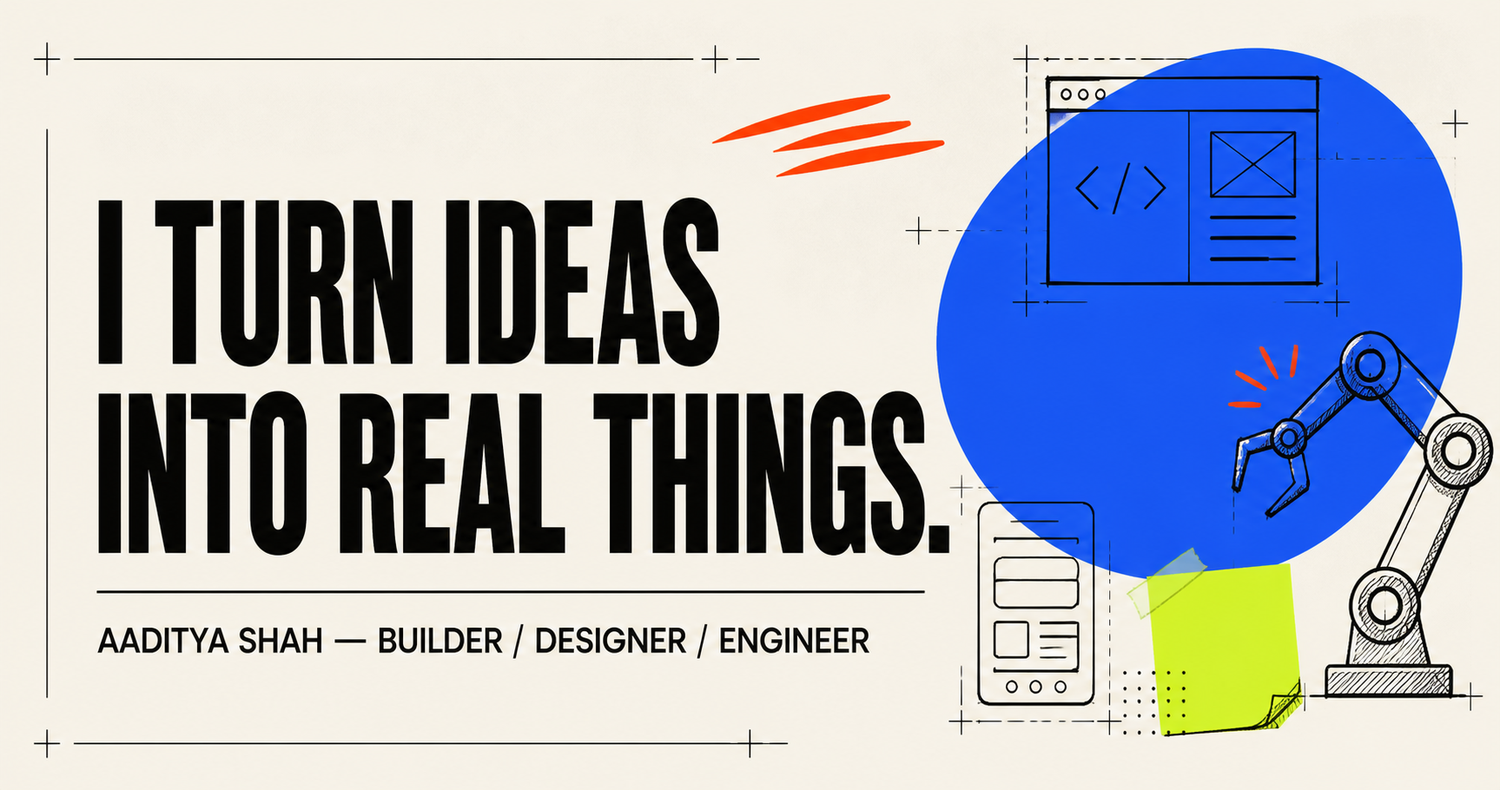
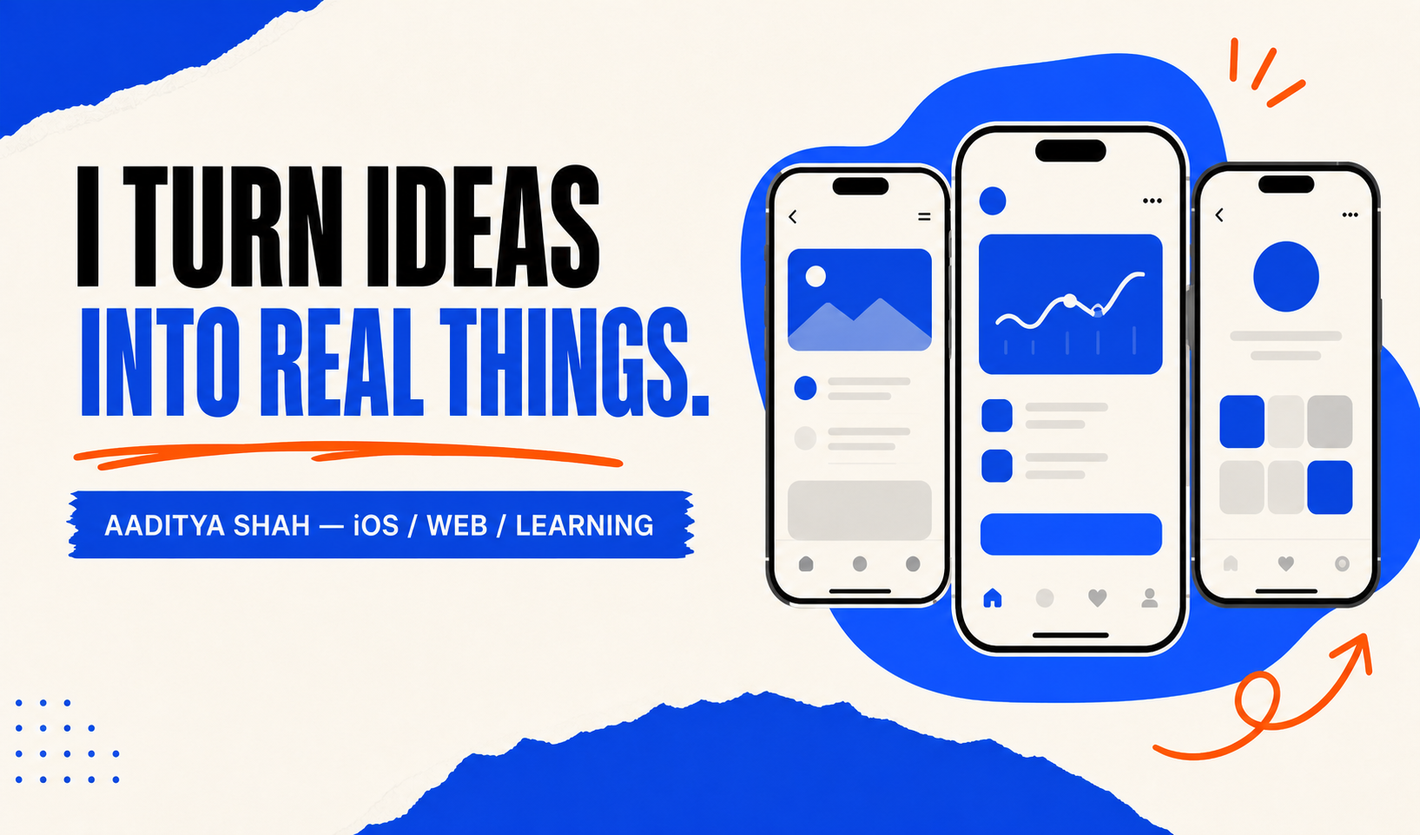
Fix app panels and refine learning projects

diff --git a/app/globals.css b/app/globals.css
@@ -40,14 +40,20 @@ main { --pointer-x:50vw; --pointer-y:50vh; overflow:hidden; position:relative; }
 .project > button:hover,.project.is-open > button { padding-left:22px; padding-right:22px; background:var(--project-color); }
 .project-number { font:11px var(--font-geist-mono); }.project-title { display:flex; align-items:baseline; gap:30px; }.project-title b { font-size:clamp(45px,6vw,86px); letter-spacing:-.07em; line-height:.8; }.project-title em { max-width:350px; font-size:14px; font-style:normal; color:#484844; }
 .project-action { display:flex; align-items:center; gap:14px; font:600 10px var(--font-geist-mono); text-transform:uppercase; }.project-action i { width:40px; height:40px; display:grid; place-items:center; border:1px solid currentColor; border-radius:50%; font-style:normal; font-size:18px; transition:transform .3s; }.project > button:hover .project-action i { transform:rotate(90deg); }.project.is-open .project-action i { transform:rotate(180deg); }
-.project-details { display:grid; grid-template-columns:1.1fr 1fr; gap:clamp(35px,7vw,110px); max-height:0; opacity:0; overflow:hidden; transition:max-height .6s cubic-bezier(.2,.8,.2,1),opacity .35s,padding .6s; }.project.is-open .project-details { max-height:750px; opacity:1; padding:10px 0 70px; }
-.project-poster { height:440px; position:relative; overflow:hidden; background:var(--project-color); display:grid; place-items:center; }.project-poster > span { position:relative; z-index:2; font-size:260px; line-height:1; font-weight:800; letter-spacing:-.1em; color:var(--paper); mix-blend-mode:screen; }.project-poster small { position:absolute; right:18px; bottom:16px; font:600 10px var(--font-geist-mono); text-transform:uppercase; }
-.poster-shape { position:absolute; width:55%; height:55%; border:3px solid var(--ink); transform:rotate(25deg); transition:transform .7s cubic-bezier(.16,1,.3,1); }.project-poster:hover .poster-shape { transform:rotate(55deg) scale(1.08); }.shape-1 { border-radius:50%; border-width:45px; animation:orbit 12s linear infinite; }.shape-2 { width:90%; height:2px; border:0; background:var(--acid); box-shadow:0 -80px 0 var(--acid),0 80px 0 var(--acid); transform:rotate(-24deg); animation:scan-lines 3s ease-in-out infinite alternate; }.shape-3 { width:210px; height:210px; background:var(--blue); border:0; border-radius:50% 50% 10% 50%; transform:rotate(45deg); animation:morph 5s ease-in-out infinite alternate; }
+.project-details { display:grid; grid-template-columns:1.1fr 1fr; gap:clamp(35px,7vw,110px); max-height:0; opacity:0; visibility:hidden; overflow:hidden; transition:max-height .65s cubic-bezier(.2,.8,.2,1),opacity .35s,padding .65s,visibility 0s .65s; }.project.is-open .project-details { max-height:1200px; opacity:1; visibility:visible; padding:10px 0 70px; transition:max-height .65s cubic-bezier(.2,.8,.2,1),opacity .4s .14s,padding .65s,visibility 0s; }
+.app-showcase { height:500px; position:relative; overflow:hidden; background:var(--project-color); display:grid; place-items:center; perspective:1200px; }.app-showcase::before { content:""; position:absolute; width:420px; height:420px; border:1px solid rgba(23,23,22,.3); border-radius:50%; animation:showcase-orbit 10s linear infinite; }.app-showcase::after { content:""; position:absolute; inset:20px; border:1px solid rgba(23,23,22,.18); }
+.phone { position:absolute; width:205px; height:410px; overflow:hidden; border:7px solid var(--ink); border-radius:34px; background:#f8f7f2; box-shadow:0 24px 45px rgba(23,23,22,.22); transition:transform .65s cubic-bezier(.16,1,.3,1); }.phone-back { z-index:2; transform:translateX(-78px) rotate(-7deg); }.phone-front { z-index:3; transform:translateX(90px) translateY(34px) rotate(8deg); background:var(--ink); color:white; display:flex; flex-direction:column; align-items:center; justify-content:center; }.app-showcase:hover .phone-back { transform:translateX(-98px) rotate(-11deg) translateY(-8px); }.app-showcase:hover .phone-front { transform:translateX(105px) translateY(24px) rotate(12deg); }
+.dynamic-island { position:absolute; z-index:4; top:9px; left:50%; width:72px; height:18px; border-radius:99px; background:var(--ink); transform:translateX(-50%); }.phone-front .dynamic-island { background:white; opacity:.22; }.phone-front .app-mark { width:82px; height:82px; margin-bottom:22px; display:grid; place-items:center; border-radius:22px; background:var(--project-color); color:var(--ink); font-size:53px; font-weight:800; text-transform:uppercase; }.phone-front > b { font-size:28px; letter-spacing:-.06em; }.phone-front > small { margin-top:5px; font:9px var(--font-geist-mono); text-transform:uppercase; opacity:.52; }
+.phone-back small { font:9px var(--font-geist-mono); text-transform:uppercase; }.kura-screen,.wayfinder-screen,.refill-screen { height:100%; padding:55px 18px 20px; display:flex; flex-direction:column; }.kura-screen > b { margin-top:40px; font-size:50px; letter-spacing:-.08em; }.kura-screen > span,.wayfinder-screen > span { font-size:10px; color:#73736d; }.kura-screen > i { height:8px; margin:14px 0 24px; border-radius:99px; background:linear-gradient(90deg,var(--orange) 73%,#ddd 73%); }.kura-screen ul,.refill-screen ul { list-style:none; margin:0; padding:0; }.kura-screen li,.refill-screen li { display:flex; justify-content:space-between; padding:13px 0; border-top:1px solid #ddd; font-size:10px; text-transform:uppercase; }.kura-screen em,.refill-screen em { font-style:normal; font-weight:700; }
+.mini-map { position:relative; flex:1; margin:25px -18px 18px; background-image:linear-gradient(#ddd 1px,transparent 1px),linear-gradient(90deg,#ddd 1px,transparent 1px); background-size:26px 26px; }.mini-map i { position:absolute; z-index:2; width:13px; height:13px; border:4px solid var(--blue); border-radius:50%; background:white; }.mini-map i:nth-child(1) { left:20px; bottom:25px; }.mini-map i:nth-child(2) { left:78px; top:83px; }.mini-map i:nth-child(3) { right:22px; top:22px; }.mini-map span { position:absolute; left:28px; bottom:31px; width:145px; height:3px; background:var(--blue); transform:rotate(-39deg); transform-origin:left; }.wayfinder-screen > b { font-size:34px; letter-spacing:-.06em; }.refill-screen > b { margin:35px 0 28px; font-size:38px; letter-spacing:-.07em; }.refill-screen li { align-items:center; text-transform:none; }.refill-screen li i { width:25px; height:25px; margin-right:8px; background:var(--acid); border-radius:7px; }.refill-screen li em { margin-left:auto; }
+.ios-label { position:absolute; z-index:4; left:20px; top:20px; padding:8px 10px; border:1px solid var(--ink); background:var(--paper); font:600 9px var(--font-geist-mono); text-transform:uppercase; }.project-aside { position:absolute; z-index:4; right:18px; bottom:16px; font:600 9px var(--font-geist-mono); text-transform:uppercase; }
 .project-info { display:flex; flex-direction:column; justify-content:center; }.project-info > p { margin:0; max-width:540px; font-size:clamp(22px,2.2vw,34px); line-height:1.35; letter-spacing:-.025em; }.project-info ul { display:flex; gap:8px; flex-wrap:wrap; list-style:none; padding:0; margin:35px 0; }.project-info li { border:1px solid var(--ink); border-radius:99px; padding:7px 10px; font:600 9px var(--font-geist-mono); text-transform:uppercase; }.project-info > span { font:10px var(--font-geist-mono); color:#77776f; }
 
 .lab { min-height:850px; background:var(--ink); color:var(--paper); display:grid; grid-template-columns:.8fr 1.2fr; gap:8vw; align-items:center; }.lab .kicker { color:var(--acid); }.lab-copy h2 { margin:30px 0 38px; font-size:clamp(65px,8vw,120px); line-height:.82; letter-spacing:-.075em; }.lab-copy > p:not(.kicker) { max-width:450px; color:rgba(242,240,232,.66); font-size:17px; line-height:1.6; }.lab-copy button { margin-top:25px; padding:14px 17px; background:var(--acid); color:var(--ink); border:0; font:600 10px var(--font-geist-mono); text-transform:uppercase; transition:.2s; }.lab-copy button:hover { transform:translateY(-3px); box-shadow:5px 5px 0 white; }
-.plant-demo { min-height:570px; position:relative; overflow:hidden; display:grid; place-items:center; border:1px solid rgba(242,240,232,.35); background-image:linear-gradient(rgba(242,240,232,.08) 1px,transparent 1px),linear-gradient(90deg,rgba(242,240,232,.08) 1px,transparent 1px); background-size:45px 45px; cursor:crosshair; transition:opacity .9s,transform .9s,box-shadow .35s; }.plant-demo:hover { box-shadow:inset 0 0 80px rgba(197,238,52,.08); }.plant-demo > p { position:absolute; left:18px; bottom:16px; margin:0; font:10px var(--font-geist-mono); text-transform:uppercase; color:var(--acid); }.sensor-zone { position:absolute; right:18px; top:16px; font:10px var(--font-geist-mono); text-transform:uppercase; }.sensor-zone::before { content:""; display:inline-block; width:7px; height:7px; margin-right:8px; border:1px solid var(--acid); border-radius:50%; }
-.plant { width:330px; height:410px; position:relative; transform:translateY(35px); }.pot { position:absolute; z-index:4; width:210px; height:180px; left:60px; bottom:0; background:var(--orange); clip-path:polygon(5% 0,95% 0,80% 100%,20% 100%); display:grid; place-items:center; border-top:8px solid var(--paper); }.pot span { font-size:46px; font-weight:800; letter-spacing:-.08em; color:var(--ink); }.stem { position:absolute; z-index:2; width:13px; height:220px; background:var(--acid); left:159px; bottom:155px; transform-origin:bottom; transition:transform .25s; }.leaf { position:absolute; z-index:3; width:100px; height:48px; background:var(--acid); border-radius:100% 0 100% 0; transform-origin:100% 100%; transition:transform .25s; }.leaf-one { left:62px; bottom:270px; transform:rotate(27deg); }.leaf-two { left:168px; bottom:305px; transform:rotate(150deg); }.leaf-three { left:68px; bottom:350px; transform:rotate(15deg) scale(.75); }.leaf-four { left:160px; bottom:375px; transform:rotate(165deg) scale(.7); }
+.plant-specs { display:flex; flex-wrap:wrap; gap:7px; margin-top:28px; }.plant-specs span { padding:7px 9px; border:1px solid rgba(242,240,232,.35); border-radius:99px; font:9px var(--font-geist-mono); text-transform:uppercase; color:rgba(242,240,232,.7); }.plant-specs span:first-child { border-color:var(--acid); color:var(--acid); }
+.plant-demo { --wind-angle:0deg; min-height:620px; position:relative; overflow:hidden; display:grid; place-items:center; border:1px solid rgba(242,240,232,.35); background-image:linear-gradient(rgba(242,240,232,.08) 1px,transparent 1px),linear-gradient(90deg,rgba(242,240,232,.08) 1px,transparent 1px); background-size:45px 45px; cursor:crosshair; transition:opacity .9s,transform .9s,box-shadow .35s; }.plant-demo:hover { box-shadow:inset 0 0 100px rgba(197,238,52,.1); }.plant-demo > p { position:absolute; z-index:8; left:18px; bottom:16px; margin:0; font:10px var(--font-geist-mono); text-transform:uppercase; color:var(--acid); }.sensor-zone { position:absolute; z-index:8; right:18px; top:16px; font:10px var(--font-geist-mono); text-transform:uppercase; }.sensor-zone::before { content:""; display:inline-block; width:7px; height:7px; margin-right:8px; border:1px solid var(--acid); border-radius:50%; }.concept-label { position:absolute; z-index:8; left:18px; top:16px; padding:7px 9px; background:var(--acid); color:var(--ink); font:700 9px var(--font-geist-mono); text-transform:uppercase; }
+.sensor-field { position:absolute; z-index:1; right:-100px; top:50%; width:390px; height:390px; transform:translateY(-50%); }.sensor-field i { position:absolute; inset:0; border:1px solid rgba(197,238,52,.25); border-radius:50%; }.sensor-field i:nth-child(2) { inset:60px; }.sensor-field i:nth-child(3) { inset:120px; }.is-awake .sensor-field i { animation:sensor-wave 1.8s ease-out infinite; }.is-awake .sensor-field i:nth-child(2) { animation-delay:.25s; }.is-awake .sensor-field i:nth-child(3) { animation-delay:.5s; }
+.plant { width:330px; height:410px; position:relative; z-index:3; transform:translateY(35px); transition:transform .18s ease-out; }.plant-demo.is-awake .plant { transform:translateY(35px) rotate(var(--wind-angle)); }.pot { position:absolute; z-index:4; width:210px; height:180px; left:60px; bottom:0; background:var(--orange); clip-path:polygon(5% 0,95% 0,80% 100%,20% 100%); display:grid; place-items:center; border-top:8px solid var(--paper); }.pot::after { content:"LEARNING PROTOTYPE"; position:absolute; bottom:22px; font:700 8px var(--font-geist-mono); letter-spacing:.12em; }.pot span { font-size:46px; font-weight:800; letter-spacing:-.08em; color:var(--ink); }.stem { position:absolute; z-index:2; width:13px; height:220px; background:var(--acid); left:159px; bottom:155px; transform-origin:bottom; transition:transform .25s; }.leaf { position:absolute; z-index:3; width:100px; height:48px; background:var(--acid); border:1px solid var(--ink); border-radius:100% 0 100% 0; transform-origin:100% 100%; transition:transform .25s; }.leaf::after { content:""; position:absolute; width:70%; height:1px; right:0; bottom:0; background:rgba(23,23,22,.45); transform:rotate(-22deg); transform-origin:right; }.leaf-one { left:62px; bottom:270px; transform:rotate(27deg); }.leaf-two { left:168px; bottom:305px; transform:rotate(150deg); }.leaf-three { left:68px; bottom:350px; transform:rotate(15deg) scale(.75); }.leaf-four { left:160px; bottom:375px; transform:rotate(165deg) scale(.7); }
 .servo { position:absolute; z-index:5; bottom:22px; width:42px; height:30px; background:var(--blue); border:3px solid var(--paper); }.servo-left { left:82px; transform:rotate(-8deg); }.servo-right { right:82px; transform:rotate(8deg); }
 .plant-demo.is-awake .stem { animation:stem-sway .72s ease-in-out infinite alternate; }.plant-demo.is-awake .leaf-one { animation:leaf-left .54s ease-in-out infinite alternate; }.plant-demo.is-awake .leaf-two { animation:leaf-right .6s ease-in-out infinite alternate; }.plant-demo.is-awake .leaf-three { animation:leaf-top-left .48s ease-in-out infinite alternate; }.plant-demo.is-awake .leaf-four { animation:leaf-top-right .66s ease-in-out infinite alternate; }
 .signal { position:absolute; right:70px; top:80px; display:flex; align-items:center; gap:8px; }.signal i { width:8px; height:8px; border:1px solid var(--acid); border-radius:50%; opacity:.25; }.is-awake .signal i { background:var(--acid); animation:signal 1s infinite; }.is-awake .signal i:nth-child(2) { animation-delay:.15s; }.is-awake .signal i:nth-child(3) { animation-delay:.3s; }
@@ -72,6 +78,8 @@ footer { height:95px; padding:0 clamp(22px,5vw,74px); display:grid; grid-templat
 @keyframes leaf-top-left { from { transform:rotate(5deg) scale(.75); } to { transform:rotate(25deg) scale(.75); } }
 @keyframes leaf-top-right { from { transform:rotate(156deg) scale(.7); } to { transform:rotate(176deg) scale(.7); } }
 @keyframes signal { 50% { opacity:1; transform:scale(1.5); } }
+@keyframes showcase-orbit { to { transform:rotate(360deg); } }
+@keyframes sensor-wave { 0% { opacity:.8; transform:scale(.72); } 100% { opacity:0; transform:scale(1.18); } }
 
 [data-reveal] { opacity:0; transform:translateY(48px); }
 [data-reveal].in-view { opacity:1; transform:none; }
@@ -79,9 +87,9 @@ footer { height:95px; padding:0 clamp(22px,5vw,74px); display:grid; grid-templat
 
 @media (max-width:850px) {
   .cursor-glow { display:none; }.nav { grid-template-columns:1fr auto; height:72px; }.nav nav { display:none; }.hero { min-height:740px; height:auto; padding-top:130px; }.hero h1 { font-size:clamp(68px,15vw,110px); }.hero-foot { padding-left:0; }.note-two { display:none; }
-  .ticker { grid-template-columns:100px 1fr; }.section-intro { grid-template-columns:1fr; }.section-intro .aside-copy { display:none; }.project > button { grid-template-columns:55px 1fr auto; }.project-title { display:block; }.project-title em { display:block; margin-top:12px; }.project-details { grid-template-columns:1fr; }.project-poster { height:360px; }.project-info { padding-bottom:15px; }.lab,.about { grid-template-columns:1fr; }.lab { gap:70px; }.plant-demo { min-height:520px; }.next-grid { grid-template-columns:1fr; }.contact { min-height:650px; }
+  .ticker { grid-template-columns:100px 1fr; }.section-intro { grid-template-columns:1fr; }.section-intro .aside-copy { display:none; }.project > button { grid-template-columns:55px 1fr auto; }.project-title { display:block; }.project-title em { display:block; margin-top:12px; }.project-details { grid-template-columns:1fr; }.app-showcase { height:470px; }.project-info { padding-bottom:15px; }.lab,.about { grid-template-columns:1fr; }.lab { gap:70px; }.plant-demo { min-height:560px; }.next-grid { grid-template-columns:1fr; }.contact { min-height:650px; }
 }
 @media (max-width:520px) {
-  .hero-meta { align-items:flex-start; }.available { max-width:130px; text-align:right; }.hero-foot { align-items:flex-end; gap:20px; }.hero-foot p { max-width:260px; }.hero-foot a { font-size:0; }.hero-foot a span { font-size:14px; }.loose-note { display:none; }.ticker { grid-template-columns:75px 1fr; padding:0 18px; }.ticker > span { font-size:9px; }.section { padding-left:18px; padding-right:18px; }.project > button { min-height:140px; grid-template-columns:38px 1fr 40px; }.project > button:hover,.project.is-open > button { padding-left:8px; padding-right:8px; }.project-title b { font-size:42px; }.project-title em { max-width:220px; font-size:12px; }.project-action { font-size:0; }.project-action i { width:35px; height:35px; }.project.is-open .project-details { padding-bottom:45px; }.project-poster { height:310px; }.project-poster > span { font-size:180px; }.lab { padding-top:100px; padding-bottom:100px; }.plant-demo { min-height:460px; }.plant { transform:translateY(70px) scale(.8); }.about-copy .skill-note { min-height:100px; }footer { grid-template-columns:1fr 1fr; }footer p:nth-child(2) { display:none; }
+  .hero-meta { align-items:flex-start; }.available { max-width:130px; text-align:right; }.hero-foot { align-items:flex-end; gap:20px; }.hero-foot p { max-width:260px; }.hero-foot a { font-size:0; }.hero-foot a span { font-size:14px; }.loose-note { display:none; }.ticker { grid-template-columns:75px 1fr; padding:0 18px; }.ticker > span { font-size:9px; }.section { padding-left:18px; padding-right:18px; }.project > button { min-height:140px; grid-template-columns:38px 1fr 40px; }.project > button:hover,.project.is-open > button { padding-left:8px; padding-right:8px; }.project-title b { font-size:42px; }.project-title em { max-width:220px; font-size:12px; }.project-action { font-size:0; }.project-action i { width:35px; height:35px; }.project.is-open .project-details { padding-bottom:45px; }.app-showcase { height:420px; }.phone { transform-origin:center; }.phone-back { transform:translateX(-55px) rotate(-7deg) scale(.86); }.phone-front { transform:translateX(65px) translateY(34px) rotate(8deg) scale(.86); }.lab { padding-top:100px; padding-bottom:100px; }.plant-demo { min-height:500px; }.plant { transform:translateY(70px) scale(.8); }.plant-demo.is-awake .plant { transform:translateY(70px) scale(.8) rotate(var(--wind-angle)); }.sensor-field { right:-180px; }.about-copy .skill-note { min-height:100px; }footer { grid-template-columns:1fr 1fr; }footer p:nth-child(2) { display:none; }
 }
 @media (prefers-reduced-motion:reduce) { html { scroll-behavior:auto; }*,*::before,*::after { animation-duration:.01ms!important; animation-iteration-count:1!important; transition:none!important; } }

diff --git a/app/page.tsx b/app/page.tsx
@@ -6,27 +6,27 @@ const projects = [
   {
     id: "kura",
     name: "kura",
-    oneLiner: "calories, minus the spreadsheet energy.",
-    description: "A simple calorie and macro tracker I made for CAC 2025. It keeps the useful numbers visible without making food feel like homework.",
-    tools: ["product", "frontend", "health"],
+    oneLiner: "an iOS calorie and macro tracker.",
+    description: "An iOS app I made for CAC 2025 that keeps calories and macros clear, quick, and easy to check throughout the day.",
+    tools: ["iOS", "product design", "health"],
     aside: "made for cac 2025",
     color: "#ff583d",
   },
   {
     id: "wayfinder",
     name: "wayfinder",
-    oneLiner: "an ai that helps you figure out where to go.",
-    description: "A navigation tool that uses AI to turn an unclear destination into a useful next step. Less tab-switching, more actually getting there.",
-    tools: ["ai", "ux", "navigation"],
+    oneLiner: "AI-powered navigation for iOS.",
+    description: "An iOS navigation app that uses AI to turn a destination into a clear route and useful next step.",
+    tools: ["iOS", "AI", "navigation"],
     aside: "built to reduce friction",
     color: "#3155ff",
   },
   {
     id: "refill",
     name: "refill",
-    oneLiner: "teachers need supplies. someone nearby has them.",
-    description: "A resource-sharing app that connects teachers with classroom supplies, because educators should not have to keep paying out of pocket.",
-    tools: ["community", "web", "education"],
+    oneLiner: "an iOS resource network for teachers.",
+    description: "An iOS app that connects teachers with nearby classroom supplies, so educators can find what they need without paying out of pocket.",
+    tools: ["iOS", "community", "education"],
     aside: "resources, redistributed",
     color: "#c5ee34",
   },
@@ -35,12 +35,13 @@ const projects = [
 const skillNotes: Record<string, string> = {
   web: "I build fast, thoughtful websites with details worth noticing.",
   ai: "I use AI to make products more useful, intuitive, and capable.",
-  hardware: "Sensors, servos, circuits, and the challenge of making code move something real.",
+  robotics: "I’m new to hardware. The robotic plant is how I want to start learning sensors, servos, and physical prototyping.",
   cad: "I design parts, prototype them, print them, and learn from every version.",
 };
 
 export default function Home() {
   const pageRef = useRef<HTMLElement>(null);
+  const plantRef = useRef<HTMLDivElement>(null);
   const [openProject, setOpenProject] = useState<string | null>(null);
   const [skill, setSkill] = useState("web");
   const [plantAwake, setPlantAwake] = useState(false);
@@ -68,6 +69,14 @@ export default function Home() {
     pageRef.current?.style.setProperty("--pointer-y", `${event.clientY}px`);
   };
 
+  const movePlant = (event: React.PointerEvent<HTMLDivElement>) => {
+    const rect = event.currentTarget.getBoundingClientRect();
+    const wind = ((event.clientX - rect.left) / rect.width) * 2 - 1;
+    plantRef.current?.style.setProperty("--wind", wind.toFixed(2));
+    plantRef.current?.style.setProperty("--wind-angle", `${(wind * 3).toFixed(1)}deg`);
+    setPlantAwake(true);
+  };
+
   return (
     <main ref={pageRef} onPointerMove={trackPointer}>
       <div className="cursor-glow" aria-hidden="true" />
@@ -89,7 +98,7 @@ export default function Home() {
         </div>
         <h1><span className="hero-line">i turn ideas</span><br /><span className="hero-line outline-line">into real things.</span></h1>
         <div className="hero-foot">
-          <p>Hey, I’m Aaditya. I build apps, websites, and robots while learning how ideas become products people can actually use.</p>
+          <p>Hey, I’m Aaditya. I build iOS apps, websites, and whatever I’m curious enough to learn next.</p>
           <a href="#work">explore my work <span>↓</span></a>
         </div>
         <div className="loose-note note-one" aria-hidden="true">freshman @ leland</div>
@@ -112,17 +121,23 @@ export default function Home() {
           {projects.map((project, index) => {
             const isOpen = openProject === project.id;
             return (
-              <article className={`project ${isOpen ? "is-open" : ""}`} key={project.id} style={{ "--project-color": project.color, "--delay": `${index * 90}ms` } as React.CSSProperties} data-reveal>
+              <article className={`project ${isOpen ? "is-open" : ""}`} key={project.id} style={{ "--project-color": project.color } as React.CSSProperties}>
                 <button type="button" onClick={() => setOpenProject(isOpen ? null : project.id)} aria-expanded={isOpen} aria-controls={`${project.id}-details`}>
                   <span className="project-number">0{index + 1}</span>
                   <span className="project-title"><b>{project.name}</b><em>{project.oneLiner}</em></span>
                   <span className="project-action">{isOpen ? "close" : "open"} <i>{isOpen ? "−" : "+"}</i></span>
                 </button>
                 <div className="project-details" id={`${project.id}-details`} aria-hidden={!isOpen}>
-                  <div className="project-poster" aria-hidden="true">
-                    <span>{project.name.slice(0, 1)}</span>
-                    <div className={`poster-shape shape-${index + 1}`} />
-                    <small>{project.aside}</small>
+                  <div className={`app-showcase app-${project.id}`} aria-hidden="true">
+                    <div className="phone phone-back">
+                      <div className="dynamic-island" />
+                      {index === 0 && <div className="kura-screen"><small>today</small><b>1,842</b><span>of 2,200 kcal</span><i /><ul><li>protein <em>112g</em></li><li>carbs <em>204g</em></li><li>fat <em>58g</em></li></ul></div>}
+                      {index === 1 && <div className="wayfinder-screen"><small>wayfinder</small><div className="mini-map"><i /><i /><i /><span /></div><b>12 min</b><span>best route found</span></div>}
+                      {index === 2 && <div className="refill-screen"><small>nearby resources</small><b>12 items</b><ul><li><i /> notebooks <em>24</em></li><li><i /> markers <em>8</em></li><li><i /> folders <em>16</em></li></ul></div>}
+                    </div>
+                    <div className="phone phone-front"><div className="dynamic-island" /><span className="app-mark">{project.name.slice(0, 1)}</span><b>{project.name}</b><small>iOS app</small></div>
+                    <span className="ios-label">designed for iPhone</span>
+                    <small className="project-aside">{project.aside}</small>
                   </div>
                   <div className="project-info">
                     <p>{project.description}</p>
@@ -138,20 +153,25 @@ export default function Home() {
 
       <section className="lab section" id="lab">
         <div className="lab-copy" data-reveal>
-          <p className="kicker">02 / currently overengineering</p>
+          <p className="kicker">02 / learning project</p>
           <h2>the robotic<br />plant.</h2>
-          <p>A 3D-printed pot. Servo-powered TPU leaves. A proximity sensor. Wave your hand and it sways like there’s wind.</p>
+          <p>A beginner robotics concept I want to build: a 3D-printed pot with flexible TPU leaves, small servos, and a proximity sensor that makes it react when someone waves nearby.</p>
           <button type="button" onClick={() => setPlantAwake((value) => !value)}>{plantAwake ? "reset sensor" : "test the sensor"}</button>
+          <div className="plant-specs" aria-label="planned components"><span>concept</span><span>ToF sensor</span><span>micro servos</span><span>TPU leaves</span></div>
         </div>
         <div
+          ref={plantRef}
           className={`plant-demo ${plantAwake ? "is-awake" : ""}`}
+          onPointerMove={movePlant}
           onPointerEnter={() => setPlantAwake(true)}
           onPointerLeave={() => setPlantAwake(false)}
           role="img"
           aria-label="Interactive prototype of a robotic plant pot. Hover or tap the test sensor button to make its leaves sway."
           data-reveal
         >
-          <span className="sensor-zone">wave here</span>
+          <span className="concept-label">concept · not built yet</span>
+          <span className="sensor-zone">move here</span>
+          <div className="sensor-field" aria-hidden="true"><i /><i /><i /></div>
           <div className="plant">
             <i className="leaf leaf-one" /><i className="leaf leaf-two" /><i className="leaf leaf-three" /><i className="leaf leaf-four" />
             <div className="stem" />
@@ -159,7 +179,7 @@ export default function Home() {
             <div className="servo servo-left" /><div className="servo servo-right" />
           </div>
           <div className="signal"><i /><i /><i /></div>
-          <p>{plantAwake ? "proximity detected — deploying breeze" : "sensor idle"}</p>
+          <p>{plantAwake ? "proximity detected — servos moving" : "sensor idle — move your cursor nearby"}</p>
         </div>
       </section>
 
@@ -170,7 +190,7 @@ export default function Home() {
         </div>
         <div className="about-copy" data-reveal>
           <p>I’m a 14-year-old freshman at Leland High School. I like ambitious projects that push me to learn whatever the next step requires.</p>
-          <p>Right now that means product design, web development, AI, CAD, 3D printing, and robotics. I’m excited to see where those skills lead.</p>
+          <p>I’m strongest in product ideas, iOS apps, and web design. I’m still a beginner at hardware, CAD, and robotics—and the plant project is how I want to start learning them.</p>
           <div className="skill-switcher" role="group" aria-label="skills">
             {Object.keys(skillNotes).map((item) => (
               <button key={item} className={skill === item ? "active" : ""} onClick={() => setSkill(item)} type="button">{item}</button>

diff --git a/app/layout.tsx b/app/layout.tsx
@@ -7,15 +7,15 @@ const mono = Geist_Mono({ variable: "--font-geist-mono", subsets: ["latin"] });
 
 export const metadata: Metadata = {
   title: "Aaditya Shah — Builder, Designer, Engineer",
-  description: "Apps, websites, and robots built by Aaditya Shah, a 14-year-old student builder in San Jose.",
+  description: "iOS apps, websites, and new experiments built by Aaditya Shah, a 14-year-old student creator in San Jose.",
   icons: { icon: "/favicon.svg", shortcut: "/favicon.svg" },
   openGraph: {
     title: "Aaditya Shah — Builder, Designer, Engineer",
-    description: "Turning ideas into apps, websites, and robots.",
+    description: "Turning ideas into iOS apps, websites, and new experiments.",
     type: "website",
     images: [{ url: "/og.png", width: 1200, height: 630, alt: "Aaditya Shah — Builder, Designer, Engineer" }],
   },
-  twitter: { card: "summary_large_image", title: "Aaditya Shah — Builder, Designer, Engineer", description: "Turning ideas into apps, websites, and robots.", images: ["/og.png"] },
+  twitter: { card: "summary_large_image", title: "Aaditya Shah — Builder, Designer, Engineer", description: "Turning ideas into iOS apps, websites, and new experiments.", images: ["/og.png"] },
 };
 
 export default function RootLayout({ children }: Readonly<{ children: React.ReactNode }>) {
